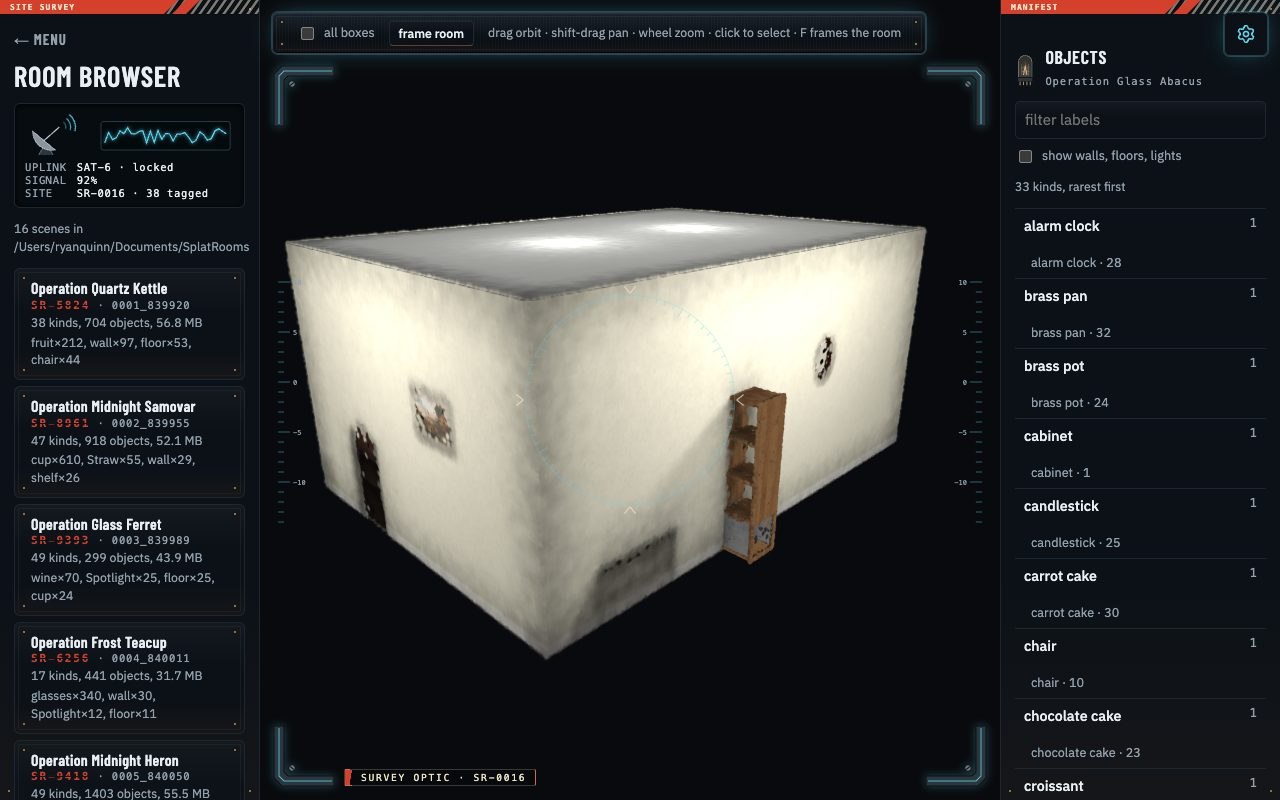
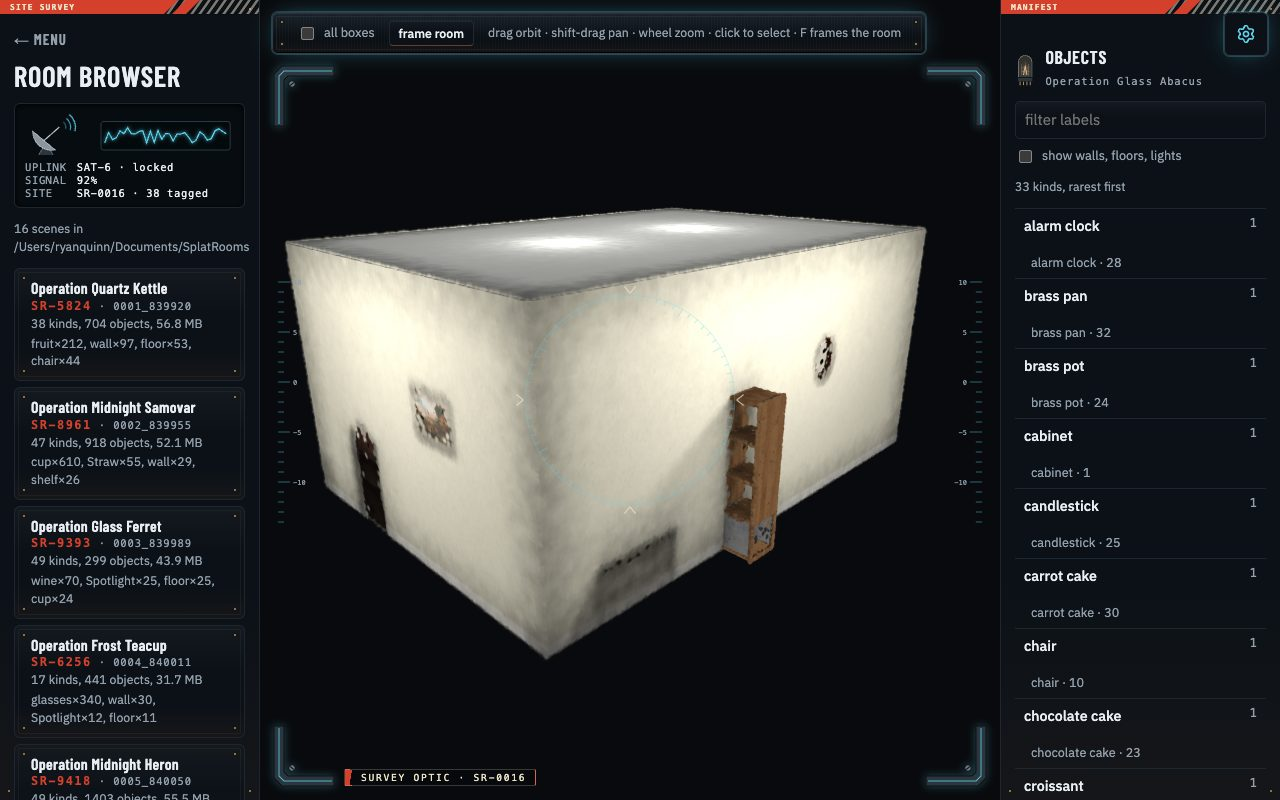
Splat Rooms: heavier stencil serials with a thinner bridge, readable at desk size (Part of #4362)

diff --git a/apps/splat-rooms/src/ui/app.css b/apps/splat-rooms/src/ui/app.css
@@ -56,8 +56,8 @@ h2 { font: 600 1.2rem/1 var(--silk); margin: 0 0 10px; text-transform: uppercase
 .room.is-on { border-color: var(--accent); box-shadow: var(--glow); }
 .room strong { font: 600 1.05rem/1.1 var(--silk); letter-spacing: .02em; }
 .room-serial { font: .7rem var(--mono); color: var(--dim); letter-spacing: .08em; }
-.stencil { font: 700 .74rem var(--mono); letter-spacing: .16em; color: var(--red);
-  background: linear-gradient(180deg, var(--red) 0 47%, transparent 47% 55%, var(--red) 55%); -webkit-background-clip: text; background-clip: text; -webkit-text-fill-color: transparent; }
+.stencil { font: 800 .8rem var(--mono); letter-spacing: .12em; color: var(--red);
+  background: linear-gradient(180deg, var(--red) 0 48%, transparent 48% 53%, var(--red) 53%); -webkit-background-clip: text; background-clip: text; -webkit-text-fill-color: transparent; }
 
 .stage { position: relative; min-width: 0; }
 .stage canvas { display: block; width: 100%; height: 100%; }
